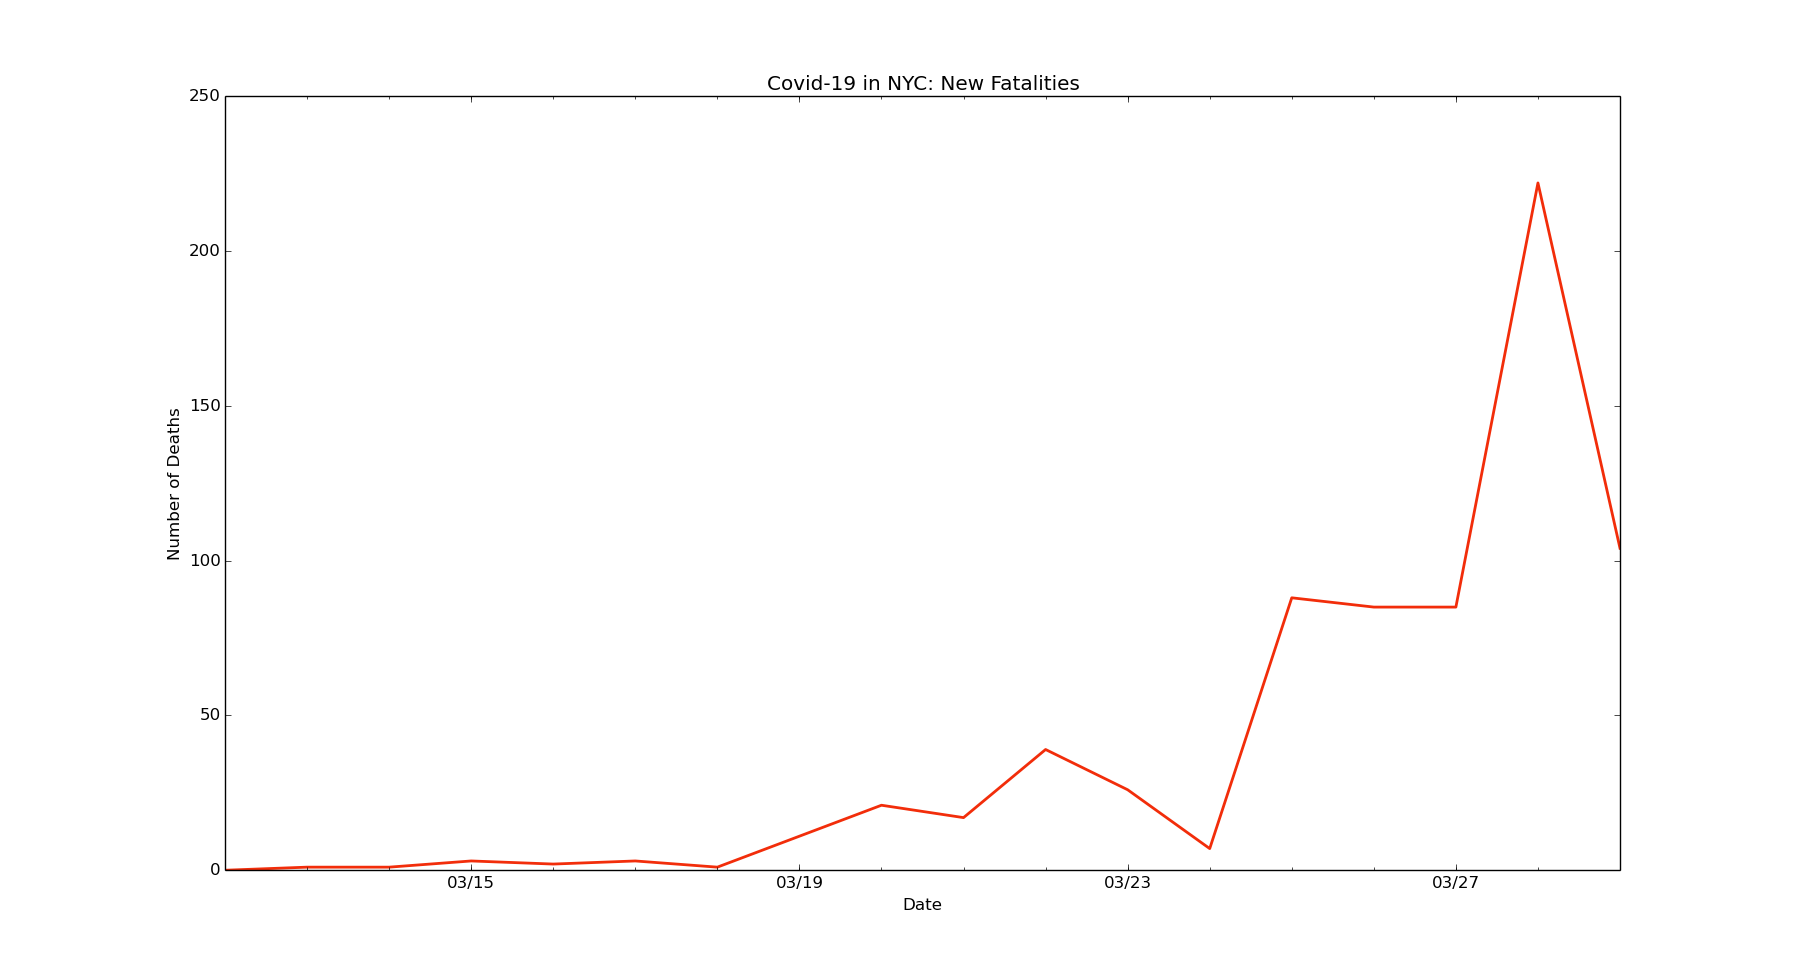
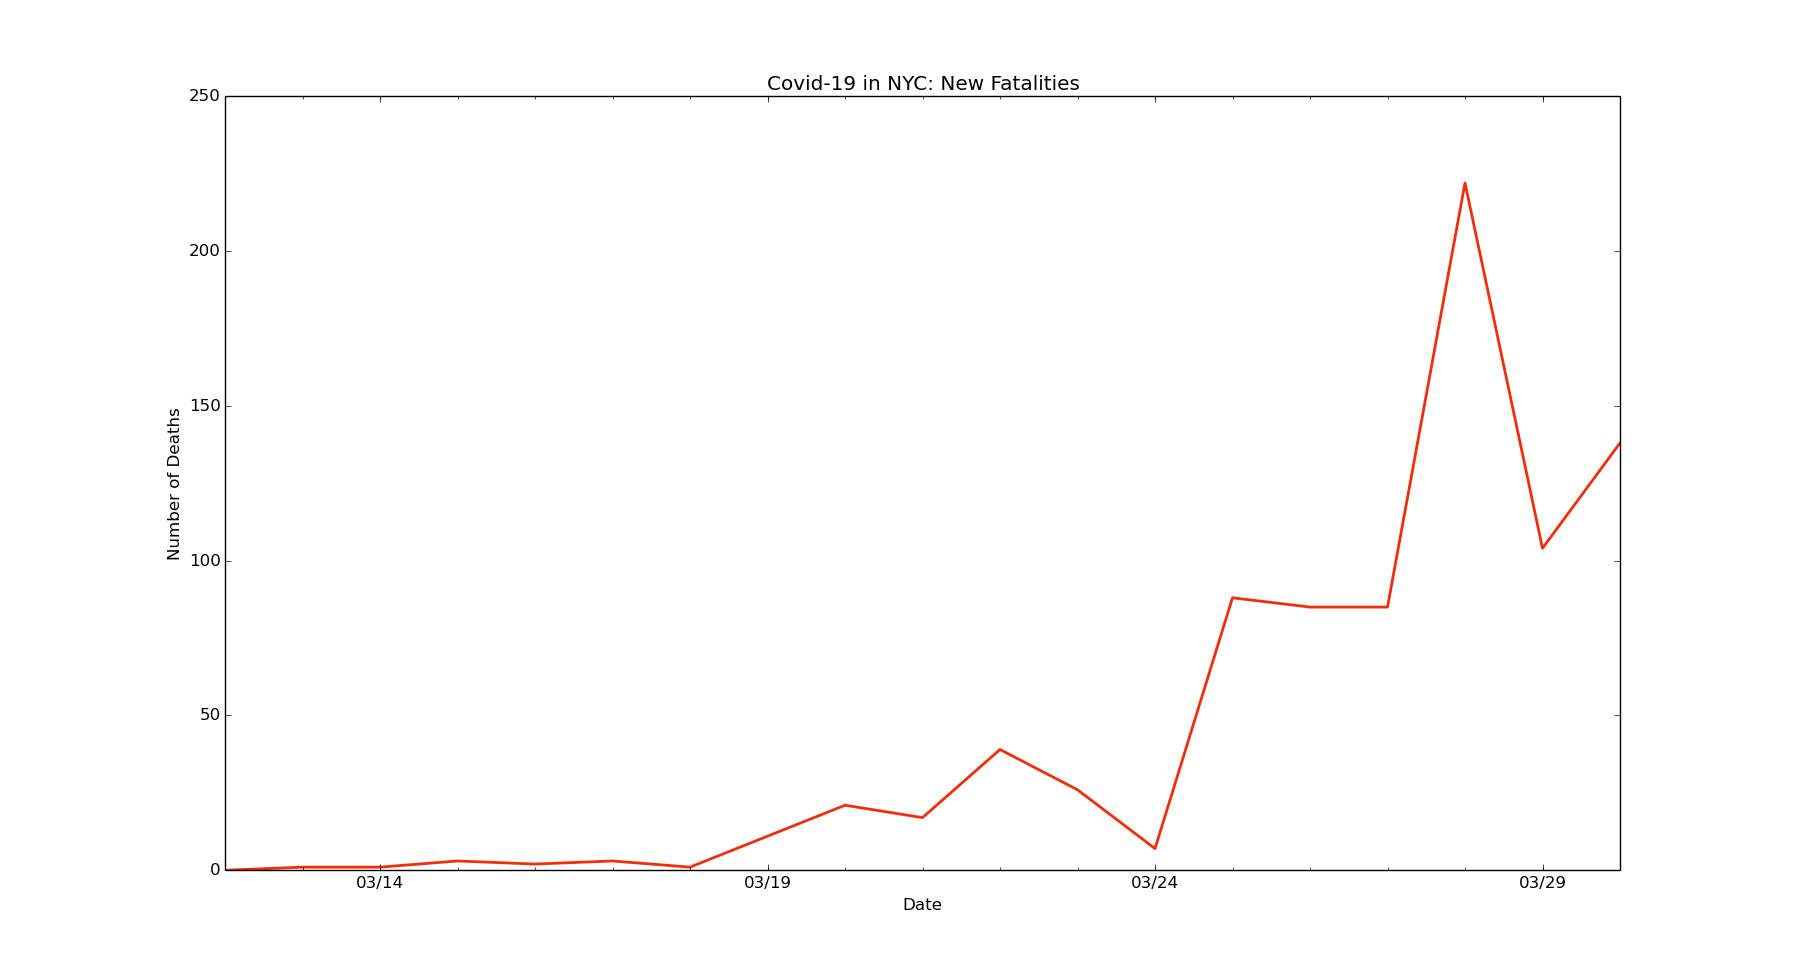
chore: Update NYC data

diff --git a/nyc/nyc-new-cases.py b/nyc/nyc-new-cases.py
@@ -6,7 +6,7 @@ import matplotlib.dates as mdates
 import matplotlib.ticker as ticker
 from matplotlib.dates import MO, TU, WE, TH, FR, SA, SU
 
-dates = ['2/29/2020', '3/1/2020', '3/2/2020', '3/3/2020', '3/4/2020', '3/5/2020', '3/6/2020', '3/7/2020', '3/8/2020', '3/9/2020', '3/10/2020', '3/11/2020', '3/12/2020', '3/13/2020', '3/14/2020', '3/15/2020', '3/16/2020', '3/17/2020', '3/18/2020', '3/19/2020', '3/20/2020', '3/21/2020', '3/22/2020', '3/23/2020', '3/24/2020', '3/25/2020', '3/26/2020', '3/27/2020', '3/28/2020', '3/29/2020']
+dates = ['2/29/2020', '3/1/2020', '3/2/2020', '3/3/2020', '3/4/2020', '3/5/2020', '3/6/2020', '3/7/2020', '3/8/2020', '3/9/2020', '3/10/2020', '3/11/2020', '3/12/2020', '3/13/2020', '3/14/2020', '3/15/2020', '3/16/2020', '3/17/2020', '3/18/2020', '3/19/2020', '3/20/2020', '3/21/2020', '3/22/2020', '3/23/2020', '3/24/2020', '3/25/2020', '3/26/2020', '3/27/2020', '3/28/2020', '3/29/2020', '3/30/2020']
 
 # format dates
 x_values = [datetime.datetime.strptime(d, "%m/%d/%Y").date() for d in dates]
@@ -16,7 +16,7 @@ ax.xaxis.set_major_formatter(formatter)
 
 # create x-axis
 # major tick = every 3 days
-ax.xaxis.set_major_locator(mdates.WeekdayLocator(byweekday=(MO, TU, WE, TH, FR, SA, SU), interval=4))
+ax.xaxis.set_major_locator(mdates.WeekdayLocator(byweekday=(MO, TU, WE, TH, FR, SA, SU), interval=5))
 # minor tick = daily
 ax.xaxis.set_minor_locator(mdates.WeekdayLocator(byweekday=(MO, TU, WE, TH, FR, SA, SU)))
 
@@ -24,7 +24,7 @@ ax.xaxis.set_minor_locator(mdates.WeekdayLocator(byweekday=(MO, TU, WE, TH, FR, 
 ax.get_yaxis().set_major_formatter(ticker.FuncFormatter(lambda x, pos: format(int(x), ',')))
 
 # new cases by day
-new_cases = [0, 1, 0, 0, 0, 3, 0, 7, 9, 7, 5, 23, 47, 59, 115, 60, 485, 109, 1086, 1606, 2068, 2432, 2649, 2355, 2478, 4414, 3101, 3585, 4033, 2744]
+new_cases = [0, 1, 0, 0, 0, 3, 0, 7, 9, 7, 5, 23, 47, 59, 115, 60, 485, 109, 1086, 1606, 2068, 2432, 2649, 2355, 2478, 4414, 3101, 3585, 4033, 2744, 4613]
 
 # text labels
 plt.title('Covid-19 in NYC: New Cases')

diff --git a/nyc/nyc-deaths-new.py b/nyc/nyc-deaths-new.py
@@ -6,7 +6,7 @@ import matplotlib.dates as mdates
 import matplotlib.ticker as ticker
 from matplotlib.dates import MO, TU, WE, TH, FR, SA, SU
 
-dates = ['3/12/2020', '3/13/2020', '3/14/2020', '3/15/2020', '3/16/2020', '3/17/2020', '3/18/2020', '3/19/2020', '3/20/2020', '3/21/2020', '3/22/2020', '3/23/2020', '3/24/2020', '3/25/2020', '3/26/2020', '3/27/2020', '3/28/2020', '3/29/2020']
+dates = ['3/12/2020', '3/13/2020', '3/14/2020', '3/15/2020', '3/16/2020', '3/17/2020', '3/18/2020', '3/19/2020', '3/20/2020', '3/21/2020', '3/22/2020', '3/23/2020', '3/24/2020', '3/25/2020', '3/26/2020', '3/27/2020', '3/28/2020', '3/29/2020', '3/30/2020']
 
 # format dates
 x_values = [datetime.datetime.strptime(d, "%m/%d/%Y").date() for d in dates]
@@ -16,7 +16,7 @@ ax.xaxis.set_major_formatter(formatter)
 
 # create x-axis
 # major tick = every 3 days
-ax.xaxis.set_major_locator(mdates.WeekdayLocator(byweekday=(MO, TU, WE, TH, FR, SA, SU), interval=4))
+ax.xaxis.set_major_locator(mdates.WeekdayLocator(byweekday=(MO, TU, WE, TH, FR, SA, SU), interval=5))
 # minor tick = daily
 ax.xaxis.set_minor_locator(mdates.WeekdayLocator(byweekday=(MO, TU, WE, TH, FR, SA, SU)))
 
@@ -24,7 +24,7 @@ ax.xaxis.set_minor_locator(mdates.WeekdayLocator(byweekday=(MO, TU, WE, TH, FR, 
 ax.get_yaxis().set_major_formatter(ticker.FuncFormatter(lambda x, pos: format(int(x), ',')))
 
 # new deaths by day
-new_deaths = [0, 1, 1, 3, 2, 3, 1, 11, 21, 17, 39, 26, 7, 88, 85, 85, 222, 104]
+new_deaths = [0, 1, 1, 3, 2, 3, 1, 11, 21, 17, 39, 26, 7, 88, 85, 85, 222, 104, 138]
 
 # text labels
 plt.title('Covid-19 in NYC: New Fatalities')
